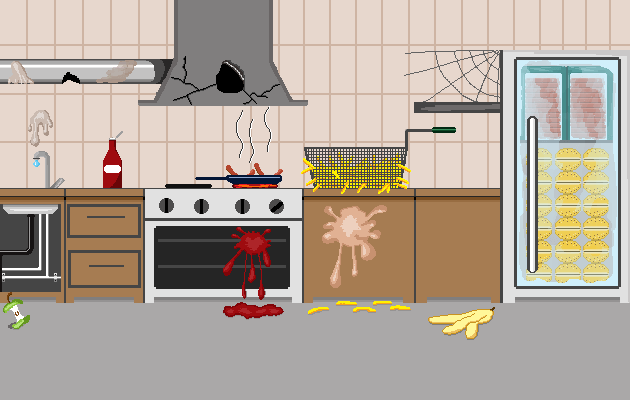
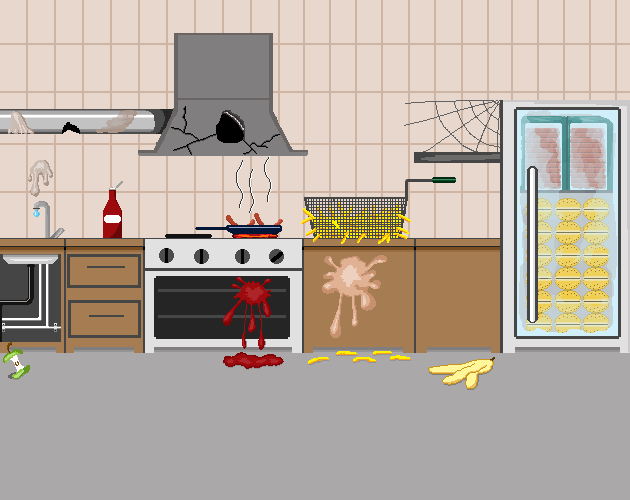
Day/Night pics for Scenes

Changed region(s): [[0.0, 0.0, 1.0, 0.87], [0.2714, 0.0, 0.4524, 0.09], [0.0, 0.09, 0.2714, 0.12]]

diff --git a/src/components/Main.jsx b/src/components/Main.jsx
@@ -1094,7 +1094,7 @@ class Main extends React.Component {
       widthType = 'kitchen';
     }
     if (type === 'Rat') {
-      className = "ratSewer"
+      className = "parallax ratSewer"
       widthType = 'kitchen';
     }
     const kitchenWidth = this.getWidth('kitchen');
@@ -1249,10 +1249,9 @@ class Main extends React.Component {
     return (
       <span className="nftCardBack">
         <div className={type === 'modal' ? 'nftDetailIdModal' : 'nftDetailId'}>
-          <span style={{color: '#000000', paddingLeft: 9}}>{hash.Generation}</span>
           { type !== 'modal' ? <span style={{color: '#FFFFFF', paddingLeft: 5}}>{hash.Type}</span> : null }
           <span className={type === 'modal' ? "nftIdDetailModal" : "nftIdDetail"}>
-            <span style={{color: '#000000'}}>#</span>
+            <span style={{color: '#000000'}}>&nbsp;#</span>
             <span style={{color: '#d1c0b6'}}>{c.name}</span>
           </span>
         </div>
@@ -1298,15 +1297,19 @@ class Main extends React.Component {
             ? `nftSelectedStats ${classNameStats}`
             : `nftNotSelected ${classNameStats}`
         }        >
+
+        { type !== 'modal' ? <div style={{marginTop: 64}} onClick={this.handleNFTLeave.bind(this,c.name) } className="infoBoxStaked"/> : null }
         { type !== 'modal' ?
         <div style={{position: 'absolute'}}>
-          <div style={{position: 'relative', left: 120, top: 54}} onClick={this.handleNFTLeave.bind(this,c.name) } className="info">
+
+          <div style={{position: 'relative', left: 120, top: staked ? 54 : 51}} onClick={this.handleNFTLeave.bind(this,c.name) } className="info">
             <img style={{marginTop: -19, marginLeft: -2}} src="/img/i.png"/>
           </div>
         </div> : null }
 
         { this.renderEfficiencyTitle(c, hash, highlightEfficiency) }
         { this.renderToleranceTitle(c,hash, highlightTolerance) }
+        <div style={{fontFamily: 'Pixellari', color: '#FFFFFF', marginLeft: 50}}>{hash.Generation}</div>
         </div>
 
       </span>
@@ -1394,6 +1397,7 @@ class Main extends React.Component {
         </Popover>
         {type !== 'modal' && c.stakingLocation === 'McStake' && c.mcstakeTimestamp > 0 ? (
           <div>
+          { type !== 'modal' ? <div onClick={this.handleNFTEnter.bind(this,c.name) } className="infoBoxStaked"/> : null }
           { type !== 'modal' ? <div style={{position: 'absolute'}}>
             <div style={{position: 'relative', left: 120, top: 10}} onClick={this.handleNFTEnter.bind(this,c.name) } className="info">
               <img style={{marginTop: -19, marginLeft: -2}} src="/img/i.png"/>
@@ -1427,7 +1431,8 @@ class Main extends React.Component {
         <div>
 
         { type !== 'modal' ? <div className="clickToSelect">Click to select</div> : null }
-        { type !== 'modal' ? <div style={{position: 'absolute'}}>
+        { type !== 'modal' ? <div onClick={this.handleNFTEnter.bind(this,c.name) } className="infoBox"/> : null }
+        { type !== 'modal' ? <div>
           <div style={{position: 'relative', left: 120, top: -24}} onClick={this.handleNFTEnter.bind(this,c.name) } className="info">
             <img style={{marginTop: -19, marginLeft: -2}} src="/img/i.png"/>
           </div>
@@ -2433,7 +2438,7 @@ Learn more about the rules in the <Link to="/whitepaper/">Whitepaper</Link>.
           <Row >
             <Col style={{width: '180px'}}>
 
-              <div style={{marginTop: 0}} className={`parallax ${this.state.kitchenConfig.gourmetKitchenClosed ? `gourmetSceneClosed${this.getDayTime()}`: 'gourmetScene' }`}>
+              <div style={{marginTop: 0}} className={`parallax ${this.state.kitchenConfig.gourmetKitchenClosed ? `gourmetSceneClosed${this.getDayTime()}`: `gourmetScene${this.getDayTime()}` }`}>
               </div>
 
               <div className="restaurantSign">
@@ -2453,7 +2458,7 @@ Learn more about the rules in the <Link to="/whitepaper/">Whitepaper</Link>.
           <Row>
             <Col style={{width: '180px'}}>
 
-            <div className={`parallax ${this.state.kitchenConfig.casualKitchenClosed ? `casualSceneClosed${this.getDayTime()}`: 'casualScene' }`}>
+            <div className={`parallax ${this.state.kitchenConfig.casualKitchenClosed ? `casualSceneClosed${this.getDayTime()}`: `casualScene${this.getDayTime()}` }`}>
             </div>
 
             <div className="restaurantSign">
@@ -2475,7 +2480,7 @@ Learn more about the rules in the <Link to="/whitepaper/">Whitepaper</Link>.
         <Card className="house kitchenMargin" size="small">
           <Row>
             <Col style={{width: '180px'}}>
-            <div className={`parallax ${this.state.kitchenConfig.fastFoodKitchenClosed ? `fastFoodSceneClosed${this.getDayTime()}`: 'fastFoodScene' }`}>
+            <div className={`parallax ${this.state.kitchenConfig.fastFoodKitchenClosed ? `fastFoodSceneClosed${this.getDayTime()}`: `fastFoodScene${this.getDayTime()}` }`}>
               <div style={{paddingTop: 210}}>
                 { !this.state.kitchenConfig.fastFoodKitchenClosed ? this.renderUnStakeButton() : null}
               </div>
@@ -3169,7 +3174,7 @@ Learn more about the rules in the <Link to="/whitepaper/">Whitepaper</Link>.
     const skyAttr = this.getWidth('sky', true, 1440, 1000);
     return (
           <Row style={{ height: "100%" }}>
-            <div className={this.getGradientClass()} style={{top: skyAttr.height, height: this.townhouseHeight}}>
+            <div className={this.getGradientClass()} style={{top: skyAttr.height, height: this.townhouseHeight - 1300}}>
             </div>
             <div ref={this.townhouseRef} className="townhouseBox" style={this.getTownhouseMargin()}>
               { this.renderRoof() }

diff --git a/src/App.css b/src/App.css
@@ -39,7 +39,13 @@
   background: #000000;
 }
 
-.gourmetScene {
+.gourmetSceneDay {
+  background-image: url("img/gourmet_scene_day.gif");
+  width: 180px;
+  height: 300px;
+}
+
+.gourmetSceneNight {
   background-image: url("img/gourmet_scene.gif");
   width: 180px;
   height: 300px;
@@ -91,11 +97,18 @@
 }
 
 
-.casualScene {
+.casualSceneDay {
   background-image: url("img/casual_scene.gif");
   width: 180px;
   height: 300px;
 }
+
+.casualSceneNight {
+  background-image: url("img/casual_scene_night.gif");
+  width: 180px;
+  height: 300px;
+}
+
 
 .casualSceneClosedDay {
   background-image: url("img/casual_scene_closed_day.png");
@@ -110,11 +123,18 @@
 }
 
 
-.fastFoodScene {
+.fastFoodSceneDay {
   background-image: url("img/fastfood_scene.gif");
   min-width: 180px;
   min-height: 300px;
 }
+
+.fastFoodSceneNight {
+  background-image: url("img/fastfood_scene_night.gif");
+  min-width: 180px;
+  min-height: 300px;
+}
+
 
 .roof {
   background-image: url("img/roof.png");
@@ -1038,6 +1058,22 @@
     font-size: 10px;
     margin-top: 5px;
     margin-left: 2px;
+  }
+
+  .infoBox {
+    width: 40px;
+    height: 40px;
+    margin-left: -25px;
+    margin-top: -10px;
+    position: absolute;
+  }
+
+  .infoBoxStaked {
+    width: 40px;
+    height: 40px;
+    margin-left: -25px;
+    margin-top: 20px;
+    position: absolute;
   }
 
   .info {
